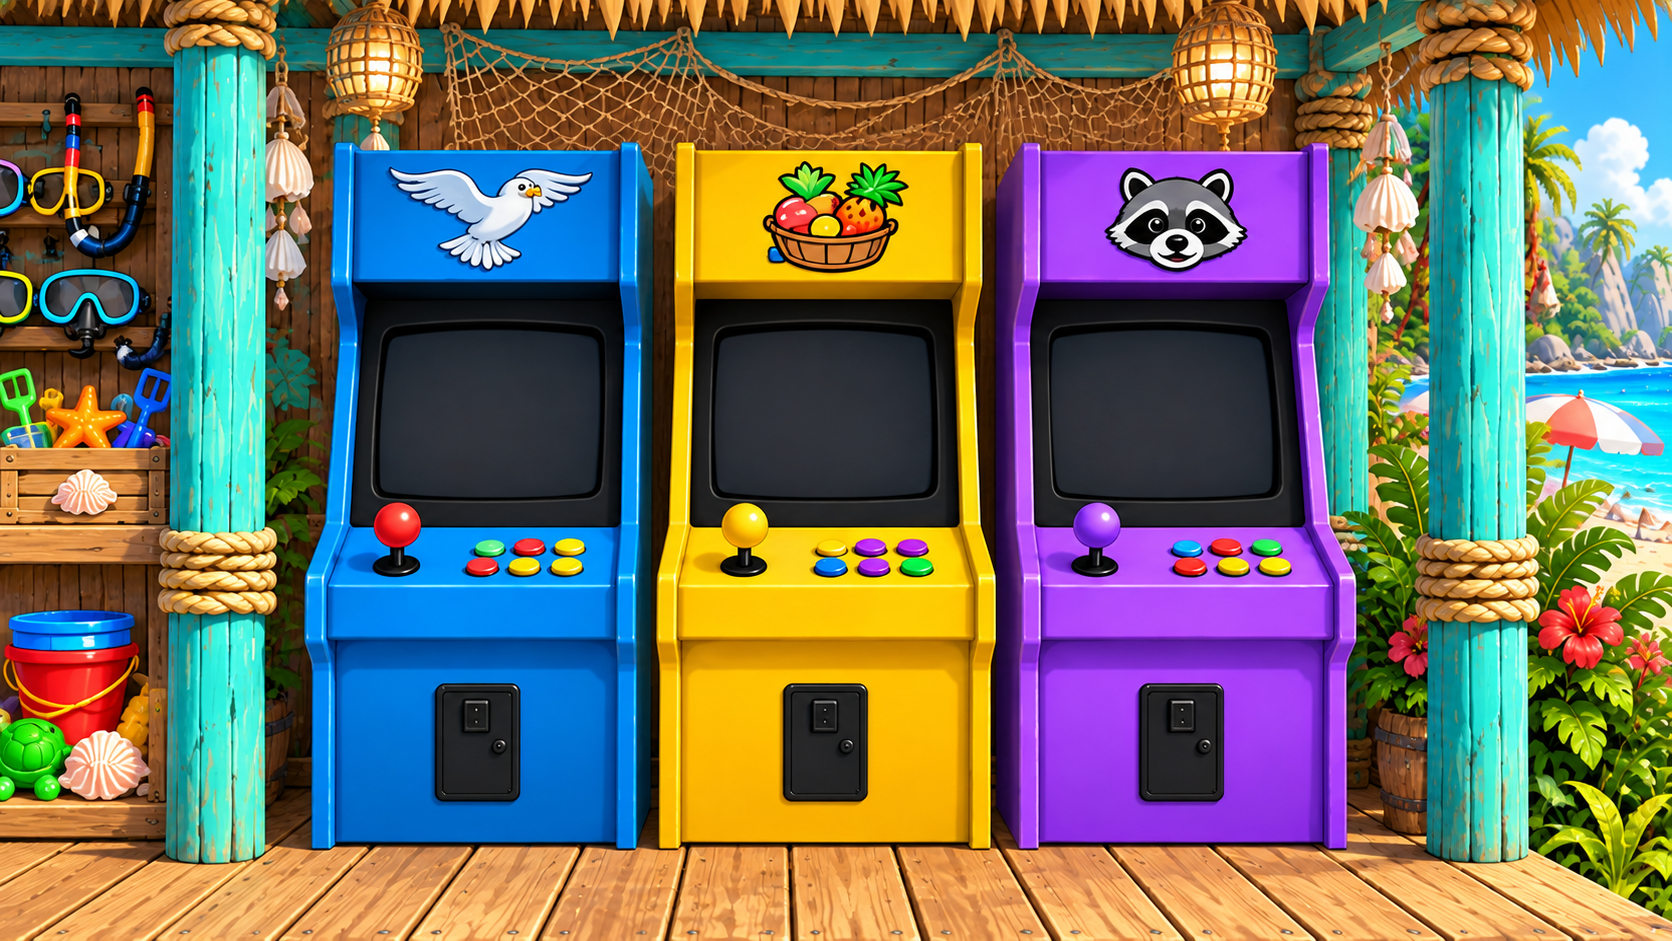
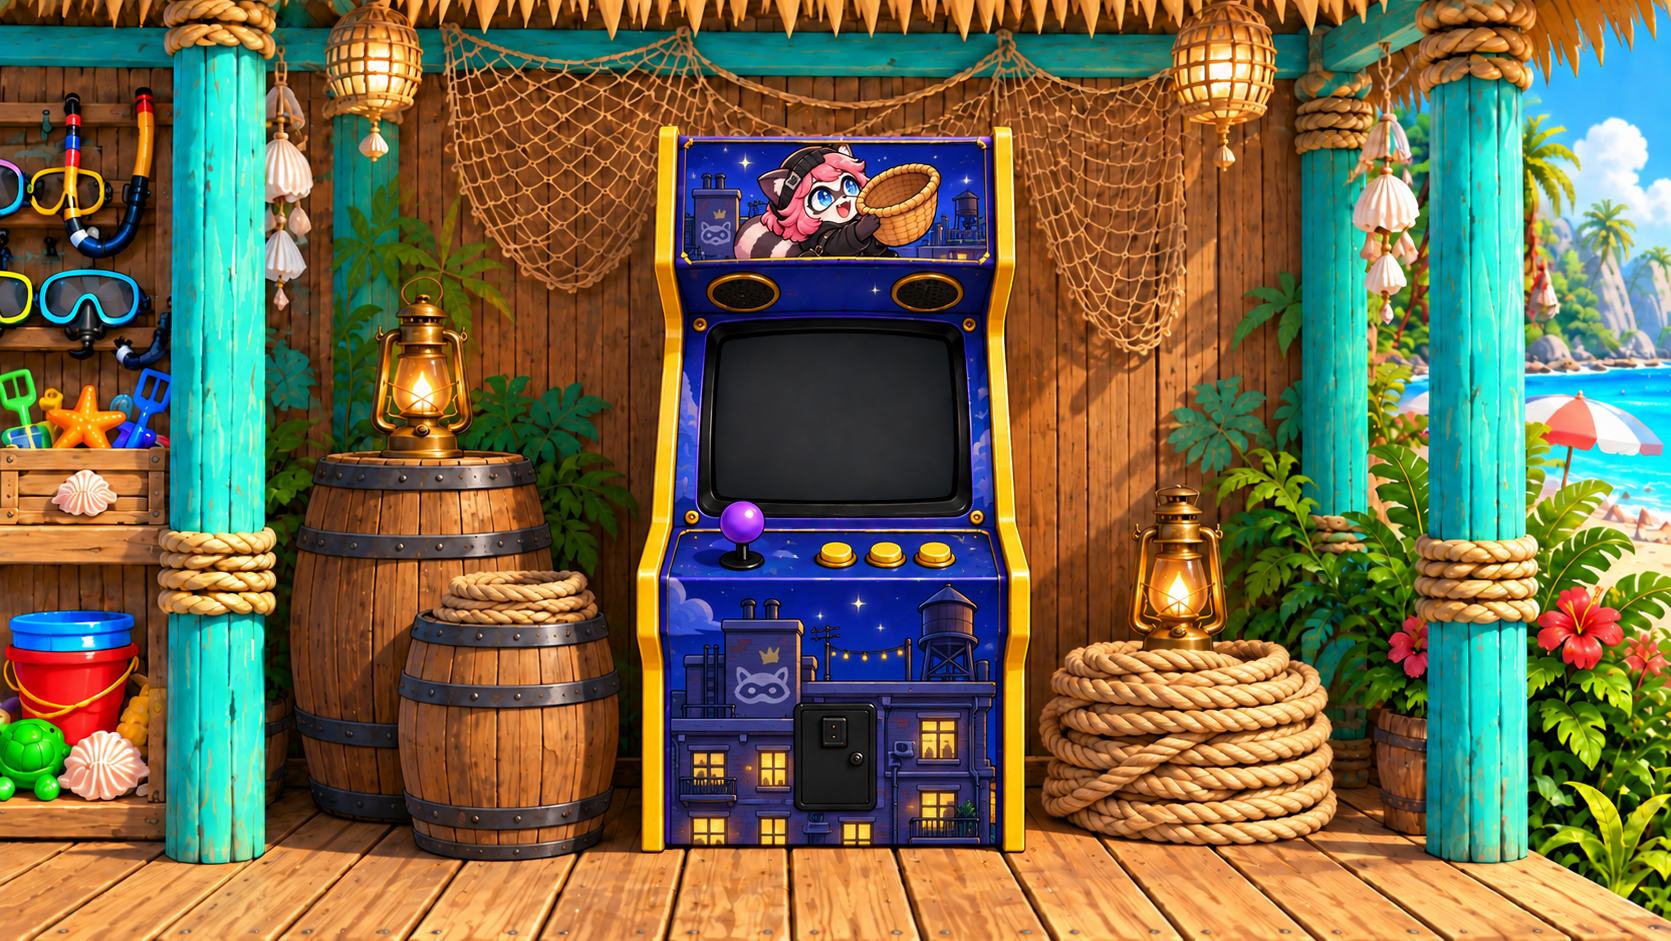
Поправлены картинки для автомата корзины

diff --git a/src/app/gameRegistry.ts b/src/app/gameRegistry.ts
@@ -16,7 +16,7 @@ import { Arkanoid } from '@/features/arkanoid'
 import { Japonsk } from '@/features/Japonsk'
 import { RobotMazeGame } from '@/features/RobotMazeGame'
 import type { GameDefinition } from '@/entities/game/model/types'
-import arcadeFrameImage from '@/shared/assets/games/flappy-bird/arcade-frame-transparent.png'
+import arcadeFrameImage from '@/shared/assets/games/fruit-basket/night-thief-arcade-frame.png'
 import islandMapImage from '@/shared/assets/features/island-map/tropical-island-map-expanded.png'
 import robotMazeGameBackground from '@/shared/assets/games/robot-maze/background.png'
 import findAPairBackground from '@/shared/assets/games/find-a-pair/findapairbackground.png'
